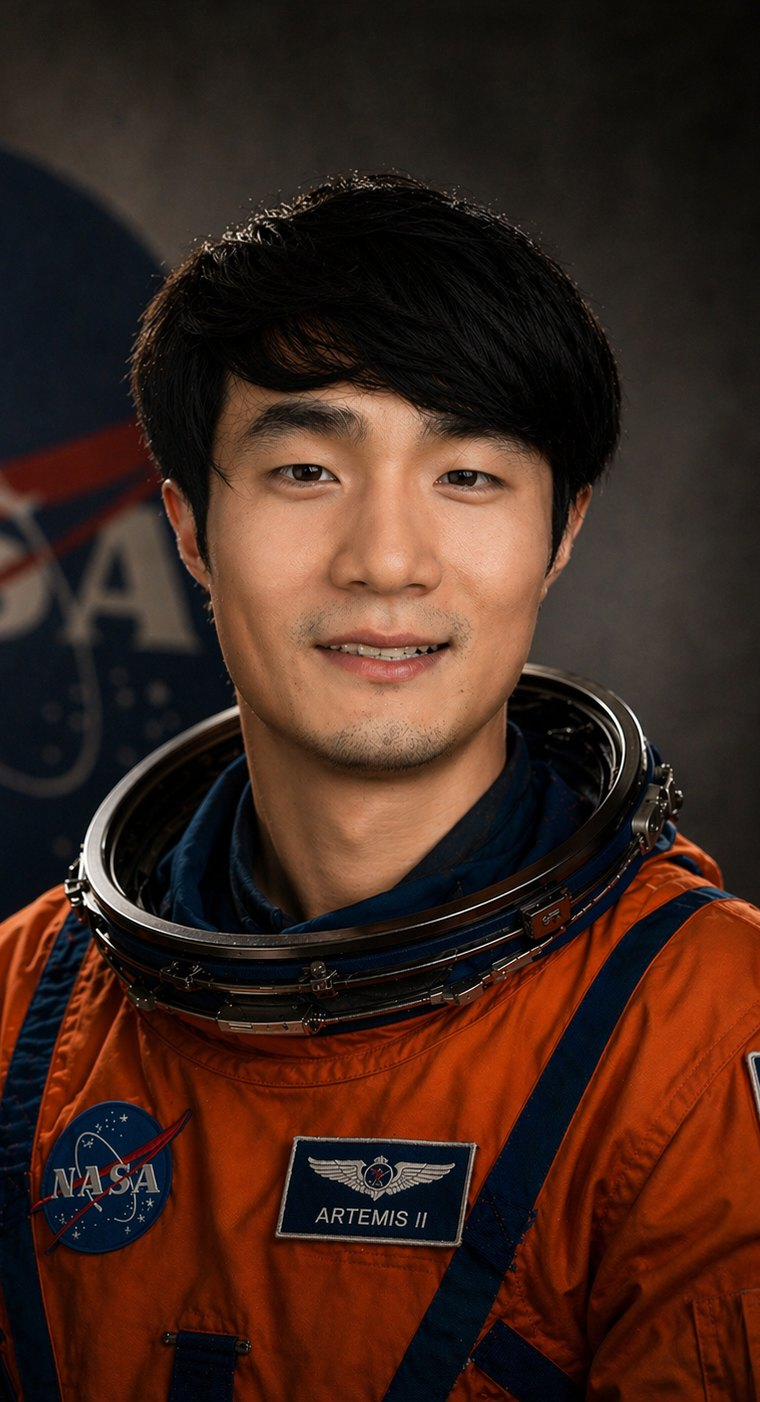
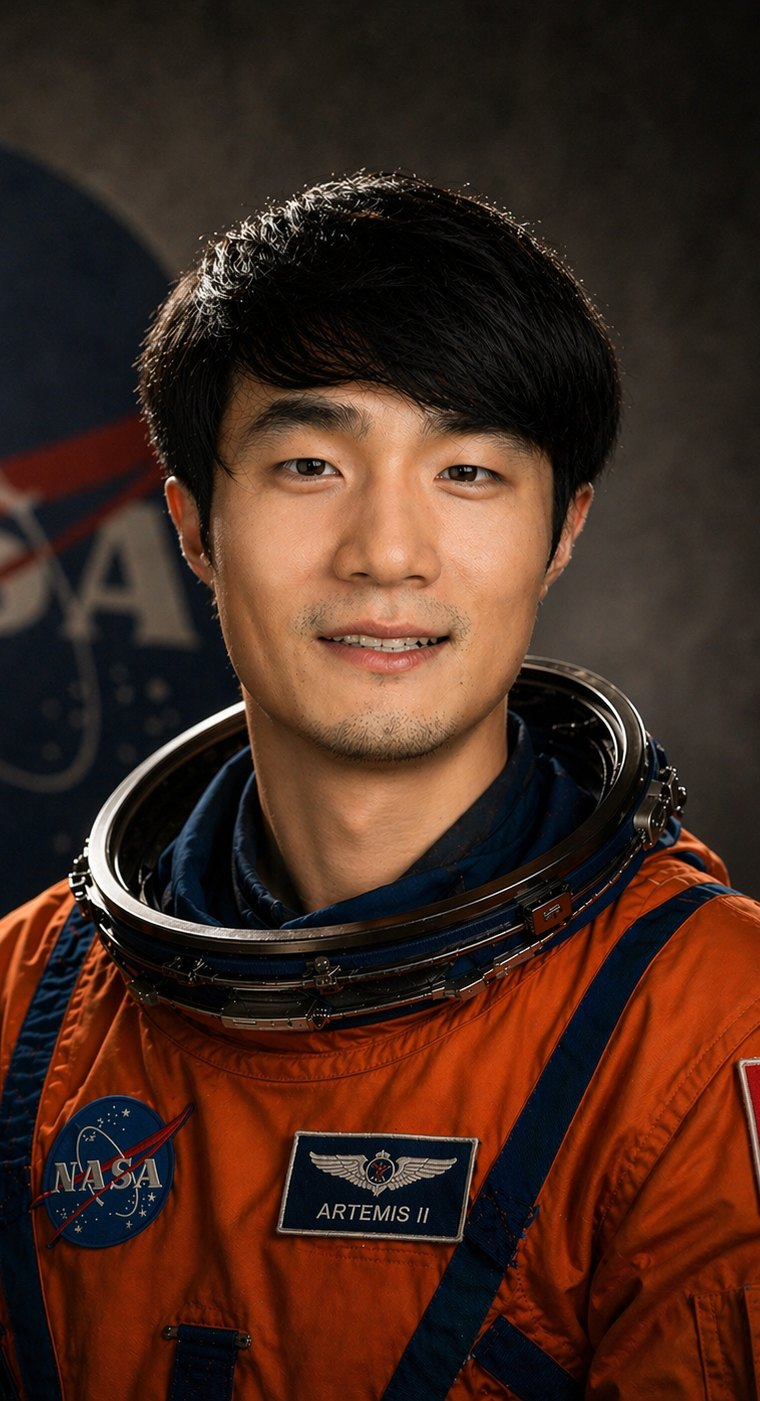
Refresh homepage portrait images

diff --git a/styles.css b/styles.css
@@ -69,7 +69,7 @@ h3 {
   background-color: #101816;
   background-image:
     linear-gradient(90deg, rgba(16, 24, 22, 1) 0%, rgba(16, 24, 22, 0.98) 43%, rgba(16, 24, 22, 0.18) 74%),
-    url("assets/profile.png");
+    url("assets/profile.png?v=20260529-profile-refresh");
   background-size: 100% 100%, auto 128%;
   background-position: center, right 31%;
   background-repeat: no-repeat;
@@ -781,7 +781,7 @@ h2 {
     min-height: 88vh;
     background-image:
       linear-gradient(90deg, rgba(16, 24, 22, 1) 0%, rgba(16, 24, 22, 0.82) 48%, rgba(16, 24, 22, 0.12) 100%),
-      url("assets/profile-mobile.jpg");
+      url("assets/profile-mobile.jpg?v=20260529-profile-refresh");
     background-position: center, center top;
   }
 

diff --git a/index.html b/index.html
@@ -15,7 +15,7 @@
     >
     <meta property="og:type" content="website">
     <meta property="og:image" content="assets/profile.png">
-    <link rel="stylesheet" href="styles.css?v=20260529-mobile-hero">
+    <link rel="stylesheet" href="styles.css?v=20260529-profile-refresh">
   </head>
   <body data-page="home">
     <header class="site-hero" id="top" aria-label="Hengdong Lu">
@@ -233,6 +233,6 @@
       <a href="#top" data-i18n="footer.backTop">Back to top</a>
     </footer>
 
-    <script src="script.js?v=20260529-mobile-hero"></script>
+    <script src="script.js?v=20260529-profile-refresh"></script>
   </body>
 </html>

diff --git a/photography.html b/photography.html
@@ -8,7 +8,7 @@
       name="description"
       content="A small photography page by Hengdong Lu."
     >
-    <link rel="stylesheet" href="styles.css?v=20260529-mobile-hero">
+    <link rel="stylesheet" href="styles.css?v=20260529-profile-refresh">
   </head>
   <body class="photo-page" data-page="photography">
     <header class="simple-header">
@@ -250,6 +250,6 @@
       <a href="index.html" data-i18n="footer.home">Home</a>
     </footer>
 
-    <script src="script.js?v=20260529-mobile-hero"></script>
+    <script src="script.js?v=20260529-profile-refresh"></script>
   </body>
 </html>
